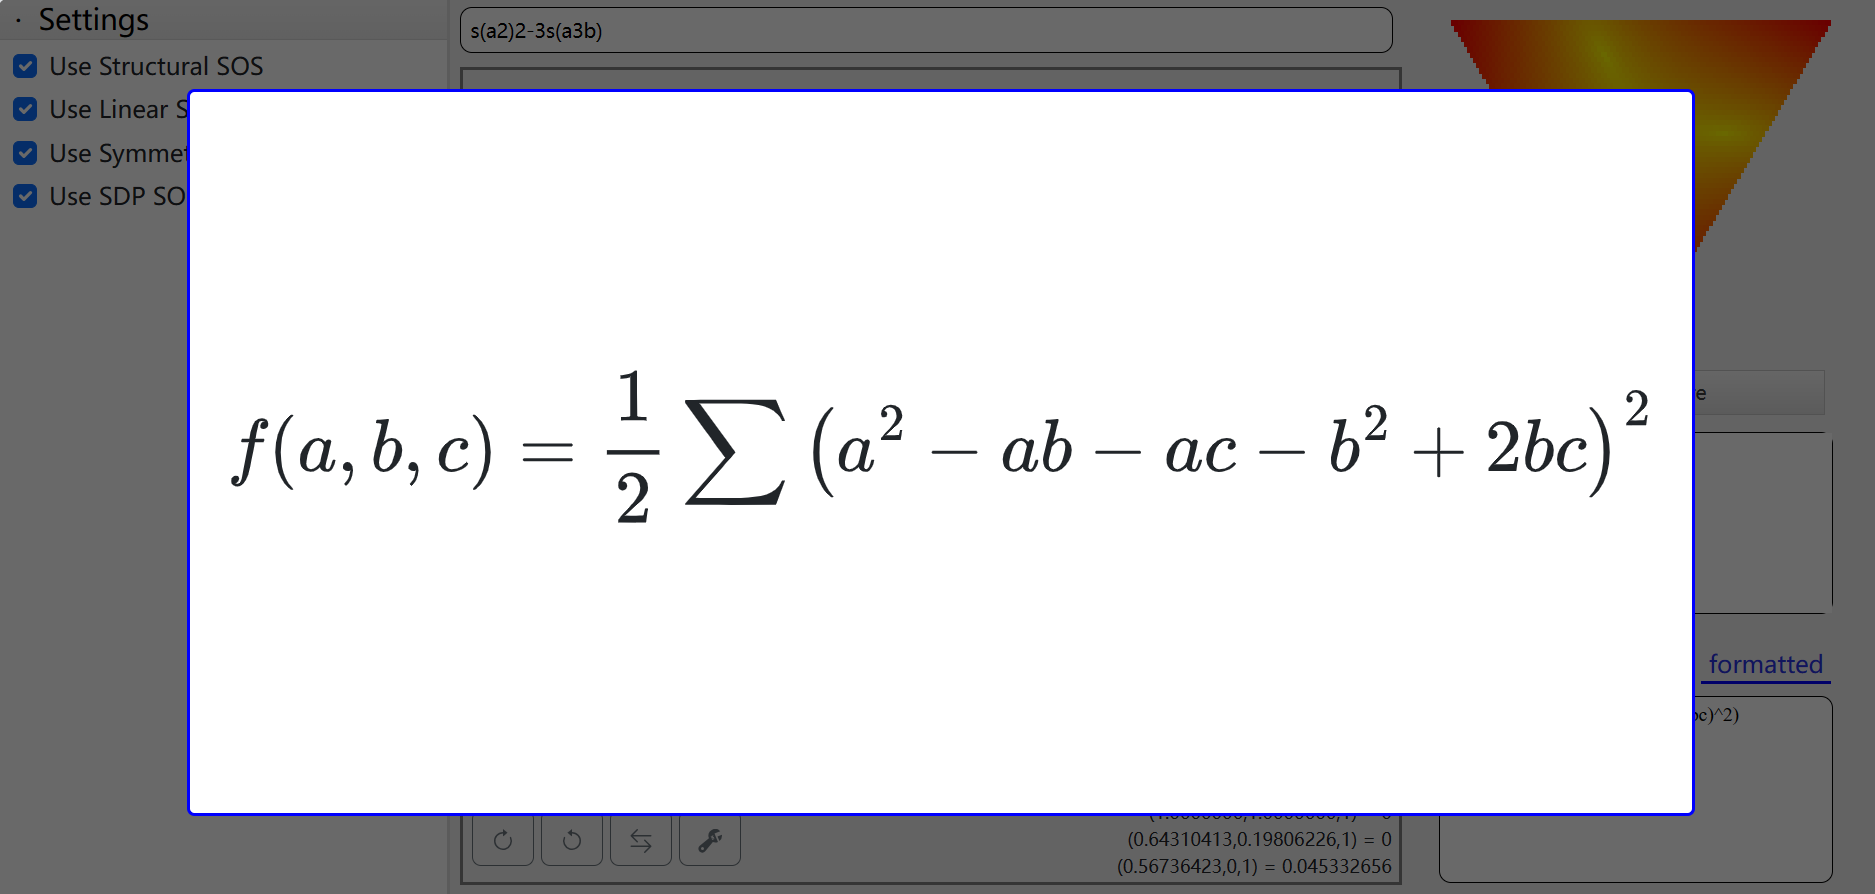
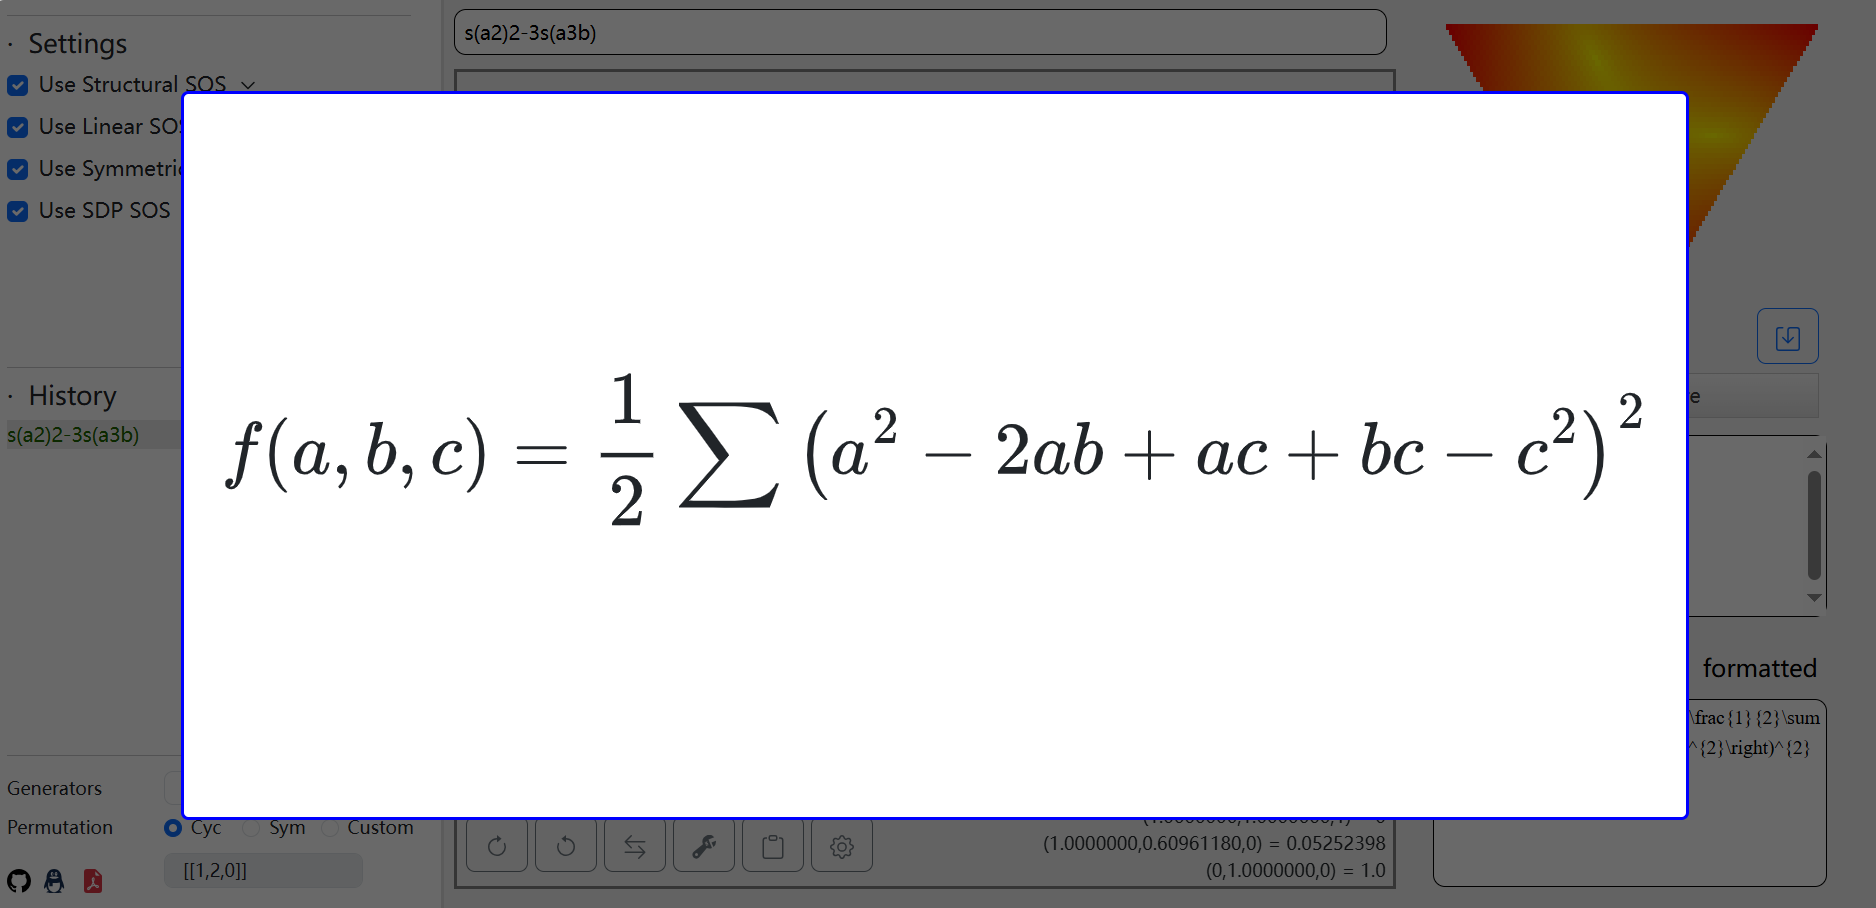
readme

diff --git a/src/utils/expression/solution.py b/src/utils/expression/solution.py
@@ -4,6 +4,7 @@ import re
 import sympy as sp
 from sympy.core.singleton import S
 from sympy.printing.precedence import precedence_traditional, PRECEDENCE
+from sympy.combinatorics import PermutationGroup, Permutation
 
 from ..expression.cyclic import is_cyclic_expr, CyclicSum, CyclicProduct, CyclicExpr
 
@@ -433,8 +434,22 @@ class SolutionSimple(Solution):
             return self
 
         self.problem = self.problem.subs(homogenizer, 1)
-        self.numerator = self.numerator.xreplace({homogenizer: 1})
-        self.multiplier = self.multiplier.xreplace({homogenizer: 1})
+        def _deflat_perm_group(expr):
+            # e.g.
+            # CyclicSum(a**2, (a,b,c,d), PermutationGroup(Permutation([1,2,0,3])))
+            # => CyclicSum(a**2, (a,b,c), PermutationGroup(Permutation([1,2,0])))
+            f, symbols, perm_group = expr.args
+            n = len(symbols)
+            if symbols[n-1] == homogenizer and len(perm_group.orbit(n-1)) == 1:
+                new_perm = PermutationGroup(*[Permutation(_.array_form[:-1]) for _ in perm_group.args])
+                return expr.func(f, symbols[:n-1], new_perm)
+            return expr
+        def dehom(f):
+            f = f.xreplace({homogenizer: 1})
+            f = f.replace(lambda x: isinstance(x, CyclicExpr), _deflat_perm_group)
+            return f
+        self.numerator = dehom(self.numerator)
+        self.multiplier = dehom(self.multiplier)
         self.solution = self.numerator / self.multiplier
         return self
 

diff --git a/README.md b/README.md
@@ -1,8 +1,8 @@
 # Triple-SOS
 
-Triple-SOS 是由 forever豪3 开发的开源且**具备图形化界面**的自动**三元齐次轮换**不等式配方器。
+Triple-SOS 是由 forever豪3 开发的开源且**具备图形化界面**的自动**多项式**不等式配方器。
 
-Triple-SOS is an open-source sum-of-square solver with GUI for three-variable cyclic homogeneous polynomials, developed by ForeverHaibara.
+Triple-SOS is an open-source symbolic polynomial sum-of-square solver with Graphic User Interface, developed by ForeverHaibara.
 
 在线体验 Online Server:
 
@@ -37,7 +37,7 @@ pip install picos
 
 1. 安装依赖: Install Dependencies
 
-   注意：目前 gradio==3.44.4 是已知唯一正常支持 LaTeX 的版本。Warning: currently gradio==3.44.4 is the only known version that supports LaTeX display.
+   注意：目前 gradio 3.44.4 是已知唯一正常支持 LaTeX 的版本。Warning: currently gradio 3.44.4 is the only known version that supports LaTeX display.
 
 ```
 pip install sympy
@@ -45,28 +45,72 @@ pip install numpy
 pip install scipy
 pip install gradio==3.44.4
 pip install pillow
-pip install picos
+pip install cvxopt
 ```
 
 2. 控制台中运行 `python gradio.app.py` 启动后端。 Run `python gradio.app.py` to launch the backend.
 3. 浏览器打开控制台中显示的地址。 Open the link displayed in the console using the browser.
 
-输入关于 a,b,c 的齐次轮换式。注: 幂符号 ^ 可以省略，函数 s 与 p 分别表示轮换和与轮换积，例如 s(a2) 表示 a^2+b^2+c^2。
+输入关于 a,b,c 的齐次轮换式。注: 幂符号 ^ 可以省略，函数 s 与 p 分别表示轮换和与轮换积，例如 `s(a2)` 表示 `a^2+b^2+c^2`。
 
-Input a cyclic and homogeneous polynomial with respect to variables a,b,c. The exponential symbol ^ can be omitted. Function s(...) and p(...) stands for cyclic sum and cyclic product. For instance, inputting s(a2) means a^2+b^2+c^2.
+Input a cyclic and homogeneous polynomial with respect to variables a,b,c. The exponential symbol ^ can be omitted. Function s(...) and p(...) stands for cyclic sum and cyclic product. For instance, inputting `s(a2)` means `a^2+b^2+c^2`.
 
-![image](https://raw.githubusercontent.com/ForeverHaibara/Triple-SOS/main/notebooks/triple_sos_example.png)
+![image](notebooks/triple_sos_example.png)
 
 ## 代码调用 Code Usage
 
+
 ```py
-from src.core import sum_of_square
-import sympy as sp
-a, b, c = sp.symbols("a b c")
-sol = sum_of_square(((a**2 + b**2 + c**2)**2 - 3*(a**3*b + b**3*c + c**3*a)).as_poly(a, b, c))
-print(sol.solution)
-print(sol.solution.doit()) # this expands the cyclic sums
+>>> from src.core import sum_of_square
+>>> import sympy as sp
+>>> a, b, c, x, y, z = sp.symbols("a b c x y z")
 ```
+
+### Sum of Square
+
+Given a polynomial, the sum-of-square solver will return a sympy expression of the sum of squares if it succeeds. It returns None if it fails (but it does not mean the polynomial is not a sum of square or positive semidefinite).
+ 
+
+**Example 1** $a,b,c\in\mathbb{R}$, prove:  $\left(a^2+b^2+c^2\right)^2\geq 3\left(a^3b+b^3c+c^3a\right)$.
+```py
+>>> sol = sum_of_square(((a**2 + b**2 + c**2)**2 - 3*(a**3*b + b**3*c + c**3*a)).as_poly(a, b, c))
+>>> sol.solution # this should be a sympy expression
+(Σ(a**2 - a*b - a*c - b**2 + 2*b*c)**2)/2
+>>> sol.solution.doit() # this expands the cyclic sums
+(-a**2 + 2*a*b - a*c - b*c + c**2)**2/2 + (a**2 - a*b - a*c - b**2 + 2*b*c)**2/2 + (-a*b + 2*a*c + b**2 - b*c - c**2)**2/2
+```
+
+<br>
+
+
+If there are inequality or equality constraints, send them as a list of sympy expressions to `ineq_constraints` and `eq_constraints`.
+
+**Example 2** $a,b,c\in\mathbb{R}_+$, prove:  $a(a-b)(a-c)+b(b-c)(b-a)+c(c-a)(c-b)\geq 0$.
+```py
+>>> sol = sum_of_square((a*(a-b)*(a-c) + b*(b-c)*(b-a) + c*(c-a)*(c-b)).as_poly(a, b, c), ineq_constraints = [a,b,c])
+>>> sol.solution
+((Σ(a - b)**2*(a + b - c)**2)/2 + Σa*b*(a - b)**2)/(Σa)
+```
+
+<br>
+
+If you want to track the inequality and equality constraints, you can send in a dict containing the alias of the constraints.
+
+**Example 3** $a,b,c\in\mathbb{R}_+$ and $abc=1$, prove: $\sum \frac{a^2}{2+a}\geq 1$.
+```py
+>>> sol = sum_of_square(((a+2)*(b+2)*(c+2)*(a**2/(2+a)+b**2/(2+b)+c**2/(2+c)-1)).cancel(), ineq_constraints=[a,b,c], eq_constraints={a*b*c-1:x})
+>>> sol.solution
+x*(Σa)/3 + 13*x + Σa*(b - c)**2 + (Σa*b*(c - 1)**2)/6 + 5*(Σ(a - 1)**2)/6 + 7*(Σ(a - b)**2)/12
+>>> sol.solution.doit()
+a*b*(c - 1)**2/3 + a*c*(b - 1)**2/3 + a*(-b + c)**2 + a*(b - c)**2 + b*c*(a - 1)**2/3 + b*(-a + c)**2 + b*(a - c)**2 + c*(-a + b)**2 + c*(a - b)**2 + x*(2*a + 2*b + 2*c)/3 + 13*x + 7*(-a + b)**2/12 + 7*(-a + c)**2/12 + 5*(a - 1)**2/3 + 7*(a - b)**2/12 + 7*(a - c)**2/12 + 7*(-b + c)**2/12 + 5*(b - 1)**2/3 + 7*(b - c)**2/12 + 5*(c - 1)**2/3
+
+>>> F = sp.Function("F")
+>>> sol = sum_of_square(((a+2)*(b+2)*(c+2)*(a**2/(2+a)+b**2/(2+b)+c**2/(2+c)-1)).cancel(), {a: F(a), b: F(b), c: F(c)}, {a*b*c-1:x})
+>>> sol.solution
+x*(ΣF(a))/3 + 13*x + Σ(a - b)**2*F(c) + (Σ(a - 1)**2*F(b)*F(c))/6 + 5*(Σ(a - 1)**2)/6 + 7*(Σ(a - b)**2)/12
+```
+
+
 
 ## 讨论交流 Discussion
 
@@ -78,24 +122,24 @@ The main function of the sum-of-square solver is `src.core.sum_of_square.sum_of_
 
 ### StructuralSOS
 
-StructuralSOS 可以解决已知的构型的不等式，例如四次以下的不等式。
+StructuralSOS 可以解决已知的构型的不等式，例如四次以下的三元齐次轮换不等式。
 
-StructuralSOS solves inequality in known forms. For example, cyclic, homogeneous inequality with degree no greater than four is completely solved.
+StructuralSOS solves inequality in known forms. For example, ternary homogeneous cyclic inequalities with degree no greater than four are completely solved.
 
 ### LinearSOS
 
-LinearSOS 待定多个基，利用线性规划求得一组非负系数。暂时不支持对实数的配方。可以自动升四次。
+LinearSOS 待定多个基，利用线性规划求得一组非负系数，可以自动升次。
 
-LinearSOS construct several basis and find a group of nonnegative coefficients by linear programming. It currently does not support sum-of-square for real numbers. It will automatically higher the degree by at most four degrees.
+LinearSOS constructs several bases and find a group of nonnegative coefficients by linear programming. It will automatically lift the degree of the polynomial.
 
 ### SymmetricSOS
 
-SymmetricSOS 利用特殊换元，可以解决一部分取等在对称轴或边界的对称不等式问题。支持对实数的配方。
+SymmetricSOS 针对三元齐次对称不等式，利用特殊换元，可以解决一部分取等在对称轴或边界的对称不等式问题。
 
-SymmetricSOS uses a special change of variables. It can solve some inequalities with equality cases on the symmetric axis or on the border. It supports sum-of-square for real numbers.
+SymmetricSOS is designed for ternary homogeneous symmetric inequality. It uses special substitution to solve inequalities with equality cases on the symmetry axis or boundary.
 
 ### SDPSOS
 
-SDPSOS 先找到多选式的零点，并将问题转化为低秩有理的SDP问题求解。适合取等非常多的问题。支持对实数的配方。暂时不能自动升次，可以手动乘 s(a), s(a2-ab), s(a2) 等尝试。
+SDPSOS 先找到多选式的零点，并将问题转化为低秩有理的SDP问题求解。适合取等非常多的问题。暂时不支持自动升次，一些多项式无法不升次地表示为平方和。
 
-SDPSOS finds the root of the polynomial first and converts the problem into low-rank rational SDP. It works well when there are many equality cases. It supports sum-of-square for real numbers. It currently does not higher the degree automatically. It is suggested to multiply s(a), s(a2-ab), s(a2) to take a try if no direct solution is available.
+SDPSOS first finds the roots of the polynomial and then transforms the problem into a low-rank rational SDP problem. It is suitable for problems with many equality cases. Currently it does not support automatic degree lifting, and some polynomials cannot be represented as sum of squares without lifting the degree.
